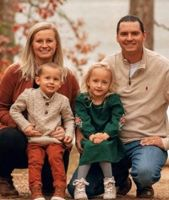
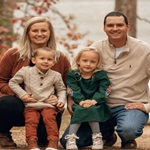
mobile updates

diff --git a/css/style.css b/css/style.css
@@ -583,6 +583,11 @@ a {
   margin-right: 0.5rem;
 }
 
+.my-auto {
+  margin-top: auto;
+  margin-bottom: auto;
+}
+
 .ml-5 {
   margin-left: 1.25rem;
 }
@@ -621,6 +626,42 @@ a {
 
 .mt-8 {
   margin-top: 2rem;
+}
+
+.mb-48 {
+  margin-bottom: 12rem;
+}
+
+.ml-0 {
+  margin-left: 0px;
+}
+
+.mr-0 {
+  margin-right: 0px;
+}
+
+.ml-10 {
+  margin-left: 2.5rem;
+}
+
+.ml-20 {
+  margin-left: 5rem;
+}
+
+.ml-16 {
+  margin-left: 4rem;
+}
+
+.mr-16 {
+  margin-right: 4rem;
+}
+
+.mr-14 {
+  margin-right: 3.5rem;
+}
+
+.mr-10 {
+  margin-right: 2.5rem;
 }
 
 .block {
@@ -663,6 +704,22 @@ a {
   height: auto;
 }
 
+.h-48 {
+  height: 12rem;
+}
+
+.h-80 {
+  height: 20rem;
+}
+
+.h-1\/2 {
+  height: 50%;
+}
+
+.h-72 {
+  height: 18rem;
+}
+
 .min-h-screen {
   min-height: 100vh;
 }
@@ -671,8 +728,24 @@ a {
   width: 100%;
 }
 
+.w-auto {
+  width: auto;
+}
+
+.w-72 {
+  width: 18rem;
+}
+
+.w-64 {
+  width: 16rem;
+}
+
 .flex-1 {
   flex: 1 1 0%;
+}
+
+.flex-shrink {
+  flex-shrink: 1;
 }
 
 .grid-cols-1 {
@@ -693,6 +766,10 @@ a {
 
 .flex-wrap {
   flex-wrap: wrap;
+}
+
+.items-center {
+  align-items: center;
 }
 
 .justify-center {
@@ -795,6 +872,10 @@ a {
   text-align: center;
 }
 
+.text-justify {
+  text-align: justify;
+}
+
 .font-sans {
   font-family: ui-sans-serif, system-ui, -apple-system, BlinkMacSystemFont, "Segoe UI", Roboto, "Helvetica Neue", Arial, "Noto Sans", sans-serif, "Apple Color Emoji", "Segoe UI Emoji", "Segoe UI Symbol", "Noto Color Emoji";
 }
@@ -847,6 +928,18 @@ a {
 .shadow-lg {
   --tw-shadow: 0 10px 15px -3px rgb(0 0 0 / 0.1), 0 4px 6px -4px rgb(0 0 0 / 0.1);
   --tw-shadow-colored: 0 10px 15px -3px var(--tw-shadow-color), 0 4px 6px -4px var(--tw-shadow-color);
+  box-shadow: var(--tw-ring-offset-shadow, 0 0 #0000), var(--tw-ring-shadow, 0 0 #0000), var(--tw-shadow);
+}
+
+.shadow-xl {
+  --tw-shadow: 0 20px 25px -5px rgb(0 0 0 / 0.1), 0 8px 10px -6px rgb(0 0 0 / 0.1);
+  --tw-shadow-colored: 0 20px 25px -5px var(--tw-shadow-color), 0 8px 10px -6px var(--tw-shadow-color);
+  box-shadow: var(--tw-ring-offset-shadow, 0 0 #0000), var(--tw-ring-shadow, 0 0 #0000), var(--tw-shadow);
+}
+
+.shadow-sm {
+  --tw-shadow: 0 1px 2px 0 rgb(0 0 0 / 0.05);
+  --tw-shadow-colored: 0 1px 2px 0 var(--tw-shadow-color);
   box-shadow: var(--tw-ring-offset-shadow, 0 0 #0000), var(--tw-ring-shadow, 0 0 #0000), var(--tw-shadow);
 }
 
@@ -956,6 +1049,10 @@ a {
     margin-bottom: 0px;
   }
 
+  .sm\:mb-auto {
+    margin-bottom: auto;
+  }
+
   .sm\:block {
     display: block;
   }
@@ -995,6 +1092,14 @@ a {
     margin-top: 1.5rem;
   }
 
+  .md\:mb-0 {
+    margin-bottom: 0px;
+  }
+
+  .md\:block {
+    display: block;
+  }
+
   .md\:flex {
     display: flex;
   }
@@ -1007,6 +1112,14 @@ a {
     height: 16rem;
   }
 
+  .md\:h-80 {
+    height: 20rem;
+  }
+
+  .md\:w-64 {
+    width: 16rem;
+  }
+
   .md\:grid-cols-3 {
     grid-template-columns: repeat(3, minmax(0, 1fr));
   }
@@ -1015,14 +1128,48 @@ a {
     flex-direction: row;
   }
 
+  .md\:items-start {
+    align-items: flex-start;
+  }
+
   .md\:space-x-8 > :not([hidden]) ~ :not([hidden]) {
     --tw-space-x-reverse: 0;
     margin-right: calc(2rem * var(--tw-space-x-reverse));
     margin-left: calc(2rem * calc(1 - var(--tw-space-x-reverse)));
   }
 
+  .md\:border {
+    border-width: 1px;
+  }
+
+  .md\:border-black {
+    --tw-border-opacity: 1;
+    border-color: rgb(0 0 0 / var(--tw-border-opacity));
+  }
+
+  .md\:text-left {
+    text-align: left;
+  }
+
   .md\:font-bold {
     font-weight: 700;
+  }
+
+  .md\:shadow-xl {
+    --tw-shadow: 0 20px 25px -5px rgb(0 0 0 / 0.1), 0 8px 10px -6px rgb(0 0 0 / 0.1);
+    --tw-shadow-colored: 0 20px 25px -5px var(--tw-shadow-color), 0 8px 10px -6px var(--tw-shadow-color);
+    box-shadow: var(--tw-ring-offset-shadow, 0 0 #0000), var(--tw-ring-shadow, 0 0 #0000), var(--tw-shadow);
+  }
+
+  .md\:shadow-2xl {
+    --tw-shadow: 0 25px 50px -12px rgb(0 0 0 / 0.25);
+    --tw-shadow-colored: 0 25px 50px -12px var(--tw-shadow-color);
+    box-shadow: var(--tw-ring-offset-shadow, 0 0 #0000), var(--tw-ring-shadow, 0 0 #0000), var(--tw-shadow);
+  }
+
+  .md\:shadow-black {
+    --tw-shadow-color: #000;
+    --tw-shadow: var(--tw-shadow-colored);
   }
 }
 
@@ -1043,6 +1190,10 @@ a {
     margin-top: 2rem;
   }
 
+  .lg\:ml-5 {
+    margin-left: 1.25rem;
+  }
+
   .lg\:block {
     display: block;
   }
@@ -1057,6 +1208,18 @@ a {
 
   .lg\:h-screen {
     height: 100vh;
+  }
+
+  .lg\:h-48 {
+    height: 12rem;
+  }
+
+  .lg\:h-64 {
+    height: 16rem;
+  }
+
+  .lg\:min-h-screen {
+    min-height: 100vh;
   }
 
   .lg\:w-1\/4 {
@@ -1093,6 +1256,14 @@ a {
     line-height: 1.25rem;
   }
 
+  .lg\:tracking-widest {
+    letter-spacing: 0.1em;
+  }
+
+  .lg\:tracking-wide {
+    letter-spacing: 0.025em;
+  }
+
   .lg\:text-white {
     --tw-text-opacity: 1;
     color: rgb(255 255 255 / var(--tw-text-opacity));
@@ -1103,6 +1274,10 @@ a {
   .xl\:flex-row {
     flex-direction: row;
   }
+
+  .xl\:tracking-wide {
+    letter-spacing: 0.025em;
+  }
 }
 
 @media (min-width: 1536px) {
@@ -1112,6 +1287,30 @@ a {
 
   .\32xl\:mt-32 {
     margin-top: 8rem;
+  }
+
+  .\32xl\:mt-20 {
+    margin-top: 5rem;
+  }
+
+  .\32xl\:mt-28 {
+    margin-top: 7rem;
+  }
+
+  .\32xl\:mb-28 {
+    margin-bottom: 7rem;
+  }
+
+  .\32xl\:mt-48 {
+    margin-top: 12rem;
+  }
+
+  .\32xl\:mt-10 {
+    margin-top: 2.5rem;
+  }
+
+  .\32xl\:mb-64 {
+    margin-bottom: 16rem;
   }
 
   .\32xl\:max-w-full {
@@ -1134,7 +1333,16 @@ a {
     line-height: 1;
   }
 
+  .\32xl\:text-xl {
+    font-size: 1.25rem;
+    line-height: 1.75rem;
+  }
+
   .\32xl\:tracking-widest {
     letter-spacing: 0.1em;
+  }
+
+  .\32xl\:tracking-wide {
+    letter-spacing: 0.025em;
   }
 }

diff --git a/index.html b/index.html
@@ -46,6 +46,7 @@
               ></div>
             </div>
           </div>
+
           <!-- Hamburger Button -->
           <div class="absolute mt-6 ml-6 md:hidden">
             <button
@@ -86,7 +87,7 @@
         </h1>
         <div class="2xl:mt-32">
           <h2
-            class="flex text-xl text-left lg:text-white 2xl:text-3xl 2xl:tracking-widest"
+            class="flex text-xl text-left lg:text-white lg:tracking-widest 2xl:text-3xl"
           >
             Lorem ipsum dolor sit amet consectetur adipisicing elit.<br />
             Laborum pariatur enim natus eos itaque architecto.<br />
@@ -101,7 +102,7 @@
     <section id="about" class="min-h-screen">
         <div class="w-full justify-center">
           <!-- Card Container -->
-          <div class="flex flex-wrap justify-center md:mt-10 2xl:space-x-48">
+          <div class="flex flex-wrap justify-center md:mt-10 2xl:mt-10 2xl:mb-64 2xl:space-x-48">
             <div class="flex flex-col justify-center w-full m-6 overflow-hidden bg-black rounded-lg shadow-lg hover:cursor-pointer hover:animate-shake sm:w-52">
                 <img src="images/checkmark-icon-original.svg" alt="" class="h-20 m-6">
                   <h2 class="text-center text-white px-2 pb-5">Unrivaled Reliability</h2>
@@ -122,17 +123,17 @@
         </div>
 
     <div class="grid gap-4 p-3 lg:grid-cols-3">
-      <div class="flex flex-col md:flex-row bg-white border border-black">
-        <img src="images/family.jpg" alt="" class="mb-5 sm:mb-0">
-        <p class="md:my-auto ml-5 mr-5 mb-5 text-xl lg:text-sm">Lorem ipsum dolor, sit amet consectetur adipisicing elit. Facilis, corporis ipsum? Quas ullam animi explicabo vero repellendus, rem repudiandae atque sequi! Perspiciatis cupiditate commodi impedit quisquam, repellat quaerat molestiae a?</p>
+      <div class="flex flex-col items-center md:flex-row bg-white md:shadow-xl md:shadow-black">
+        <img src="images/familyOg.jpg" alt="" class="h-80 w-64 mb-5 sm:mb-0">
+        <p class=" my-auto mb-5 text-left ml-16 mr-5 sm:mb-auto lg:ml-5 2xl:text-xl 2xl:text-md 2xl:tracking-wide">Lorem ipsum dolor, sit amet consectetur adipisicing elit. Facilis, corporis ipsum? Quas ullam animi explicabo vero repellendus, rem repudiandae atque sequi!</p>
       </div>
-      <div class="flex flex-col md:flex-row bg-white border border-black">
-        <img src="images/truck2.jpg" alt="" class="mb-5 sm:mb-0">
-        <p class="md:my-auto ml-5 mr-5 mb-5 text-xl lg:text-sm">Lorem ipsum dolor, sit amet consectetur adipisicing elit. Facilis, corporis ipsum? Quas ullam animi explicabo vero repellendus, rem repudiandae atque sequi! Perspiciatis cupiditate commodi impedit quisquam, repellat quaerat molestiae a?</p>
+      <div class="flex flex-col items-center md:flex-row bg-white md:shadow-xl md:shadow-black">
+        <img src="images/truck2.jpg" alt="" class="flex mb-5 h-80 w-64 sm:mb-0">
+        <p class="my-auto mb-5 text-left ml-16 mr-5 sm:mb-auto lg:ml-5 2xl:text-xl 2xl:text-md 2xl:tracking-wide">Lorem ipsum dolor, sit amet consectetur adipisicing elit. Facilis, corporis ipsum? Quas ullam animi explicabo vero repellendus, rem repudiandae atque sequi!</p>
       </div>
-      <div class="flex flex-col md:flex-row bg-white border border-black">
-        <img src="images/Johanning Inc Logo-2.png" alt="" class="mb-5 sm:mb-0 md:h-64">
-        <p class="md:my-auto ml-5 mr-5 mb-5 text-xl lg:text-sm">Lorem ipsum dolor, sit amet consectetur adipisicing elit. Facilis, corporis ipsum? Quas ullam animi explicabo vero repellendus, rem repudiandae atque sequi! Perspiciatis cupiditate commodi impedit quisquam, repellat quaerat molestiae a?</p>
+      <div class="flex flex-col items-center md:flex-row bg-white md:shadow-xl md:shadow-black">
+        <img src="images/Johanning Inc Logo-2.png" alt="" class="mb-5 h-80 w-64  sm:mb-0">
+        <p class="my-auto mb-5 text-left ml-16 mr-5 sm:mb-auto lg:ml-5 2xl:text-xl 2xl:text-md 2xl:tracking-wide">Lorem ipsum dolor, sit amet consectetur adipisicing elit. Facilis, corporis ipsum? Quas ullam animi explicabo vero repellendus, rem repudiandae atque sequi!</p>
       </div>
     </div>
   </section>
